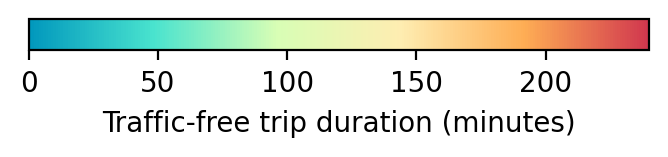
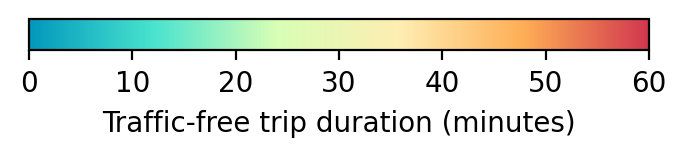
chore: add AQ4 and MOBI1 markdowns

diff --git a/app/src/config/gtif.js b/app/src/config/gtif.js
@@ -1203,7 +1203,7 @@ export const globalIndicators = [
               id: 'duration_real',
               description: 'Real trip duration',
               min: 0,
-              max: 1200, // TODO: check if this matches legend / actual data
+              max: 3600,
               colormapUsed: blgrrd,
               markdown: 'AQ4_duration_real',
             },
@@ -1211,7 +1211,7 @@ export const globalIndicators = [
               id: 'duration',
               description: 'Traffic-free trip duration',
               min: 0,
-              max: 1200, // TODO: check if this matches legend / actual data
+              max: 3600,
               colormapUsed: blgrrd,
               markdown: 'AQ4_duration',
             },
@@ -1219,7 +1219,7 @@ export const globalIndicators = [
               id: 'speed_real',
               description: 'Real trip speed',
               min: 0,
-              max: 140, // km/h
+              max: 130,
               colormapUsed: blgrrd,
               markdown: 'AQ4_speed_real',
             },
@@ -1227,7 +1227,7 @@ export const globalIndicators = [
               id: 'speed',
               description: 'Traffic-free trip speed',
               min: 0,
-              max: 140,
+              max: 130,
               colormapUsed: blgrrd,
               markdown: 'AQ4_speed',
             },

diff --git a/app/public/data/gtif/markdown/MOBI1_users_density.md b/app/public/data/gtif/markdown/MOBI1_users_density.md
@@ -1,0 +1,17 @@
+### Dynamic human presence
+
+#### Population density
+
+**Brief description:** The Population Density [#people / km 2 ] reports the hourly density of people
+per square kilometer within each Local Administrative Unit (LAU). A larger value denotes a
+densely visited area whereas lower values correspond to more sparse (in terms of visitors)
+areas. Population density allows us to effectively compare the occupation rate of census areas
+featuring different surface extensions and amount of visitors.
+
+**Unit:** people/km2
+
+**Value Range:** GEM level: [0, 200]
+
+**Color Range:** linear scale [0, 200]
+
+![Legend](legends/gtif/MOBI1_users_density.png "Population density")

diff --git a/app/public/data/gtif/markdown/AQ4_congestion_index.md b/app/public/data/gtif/markdown/AQ4_congestion_index.md
@@ -1,0 +1,16 @@
+### Human Mobility Patterns
+
+#### Congestion index
+
+**Brief description:** The Congestion index represents the ratio between the Real Trip Duration
+and Traffic-free Trip Duration, with values greater than 1 indicating congestion (trips that take
+more time to be completed with respect to the ideal case) and values close to or less than 1
+indicating an ideal travel situation.
+
+**Unit:** dimensionless
+
+**Value Range:** 0.5 - 3;
+
+**Color Range:** linear scale [0.5, 3]
+
+![Legend](legends/gtif/AQ4_congestion_index.png "Congestion index")

diff --git a/app/public/data/gtif/markdown/AQ4_duration_real.md b/app/public/data/gtif/markdown/AQ4_duration_real.md
@@ -1,0 +1,15 @@
+### Human Mobility Patterns
+
+#### Real trip duration
+
+**Brief description:** The Real trip duration represents the mean travel time (in minutes) that it
+takes to go from origin to destination for all the trips passing on a street segment during a
+specific hour, as measured from empirical data.
+
+**Unit:** minutes
+
+**Value Range:** 0 - 60 [minutes];
+
+**Color Range:** linear scale [0, 60]
+
+![Legend](legends/gtif/AQ4_duration_real.png "Real trip duration")

diff --git a/app/public/data/gtif/markdown/AQ4_speed_real.md b/app/public/data/gtif/markdown/AQ4_speed_real.md
@@ -1,0 +1,15 @@
+### Human Mobility Patterns
+
+#### Real trip speed
+
+**Brief description:**The Real trip speed reports the average speed [km/h] of all trajectories
+passing through a street segment during a specific hour, as observed from empirical data in the
+real-world scenario.
+
+**Unit:** km/h
+
+**Value Range:** 0 - 130 [km/h];
+
+**Color Range:** linear scale [0 - 130]
+
+![Legend](legends/gtif/AQ4_speed_real.png "Real trip speed")

diff --git a/app/public/data/gtif/markdown/AQ4_speed.md b/app/public/data/gtif/markdown/AQ4_speed.md
@@ -1,0 +1,14 @@
+### Human Mobility Patterns
+
+#### Traffic-free trip speed
+
+**Brief description:** The Traffic-free trip speed reports the average speed [km/h] of all trajectories
+passing on a street segment during a specific hour in the traffic-free scenario.
+
+**Unit:** km/h
+
+**Value Range:** 0 - 130 [km/h];
+
+**Color Range:** linear scale [0 - 130]
+
+![Legend](legends/gtif/AQ4_speed.png "Traffic-free trip speed")

diff --git a/app/public/data/gtif/markdown/MOBI1_users_count.md b/app/public/data/gtif/markdown/MOBI1_users_count.md
@@ -1,0 +1,14 @@
+### Dynamic human presence
+
+#### Population count
+
+**Brief description:** The Population Count reports the number of people present in each Local
+Administrative Unit (LAU) during a given hour.
+
+**Unit:** people in area
+
+**Value Range:** GEM level: [0, 500]
+
+**Color Range:** linear scale [0, 500]
+
+![Legend](legends/gtif/MOBI1_users_count.png "Population count")

diff --git a/app/public/data/gtif/markdown/AQ4_duration.md b/app/public/data/gtif/markdown/AQ4_duration.md
@@ -8,10 +8,8 @@ specific hour in a hypothetical, traffic-free scenario.
 
 **Unit:** minutes
 
-**Value Range:** 0 - 240 [minutes];
+**Value Range:** 0 - 60 [minutes];
 
-**Color norm:** linear
-
-**Color Range:** linear scale [0, 240]
+**Color Range:** linear scale [0, 60]
 
 ![Legend](legends/gtif/AQ4_duration.png "Traffic-free trip duration")
